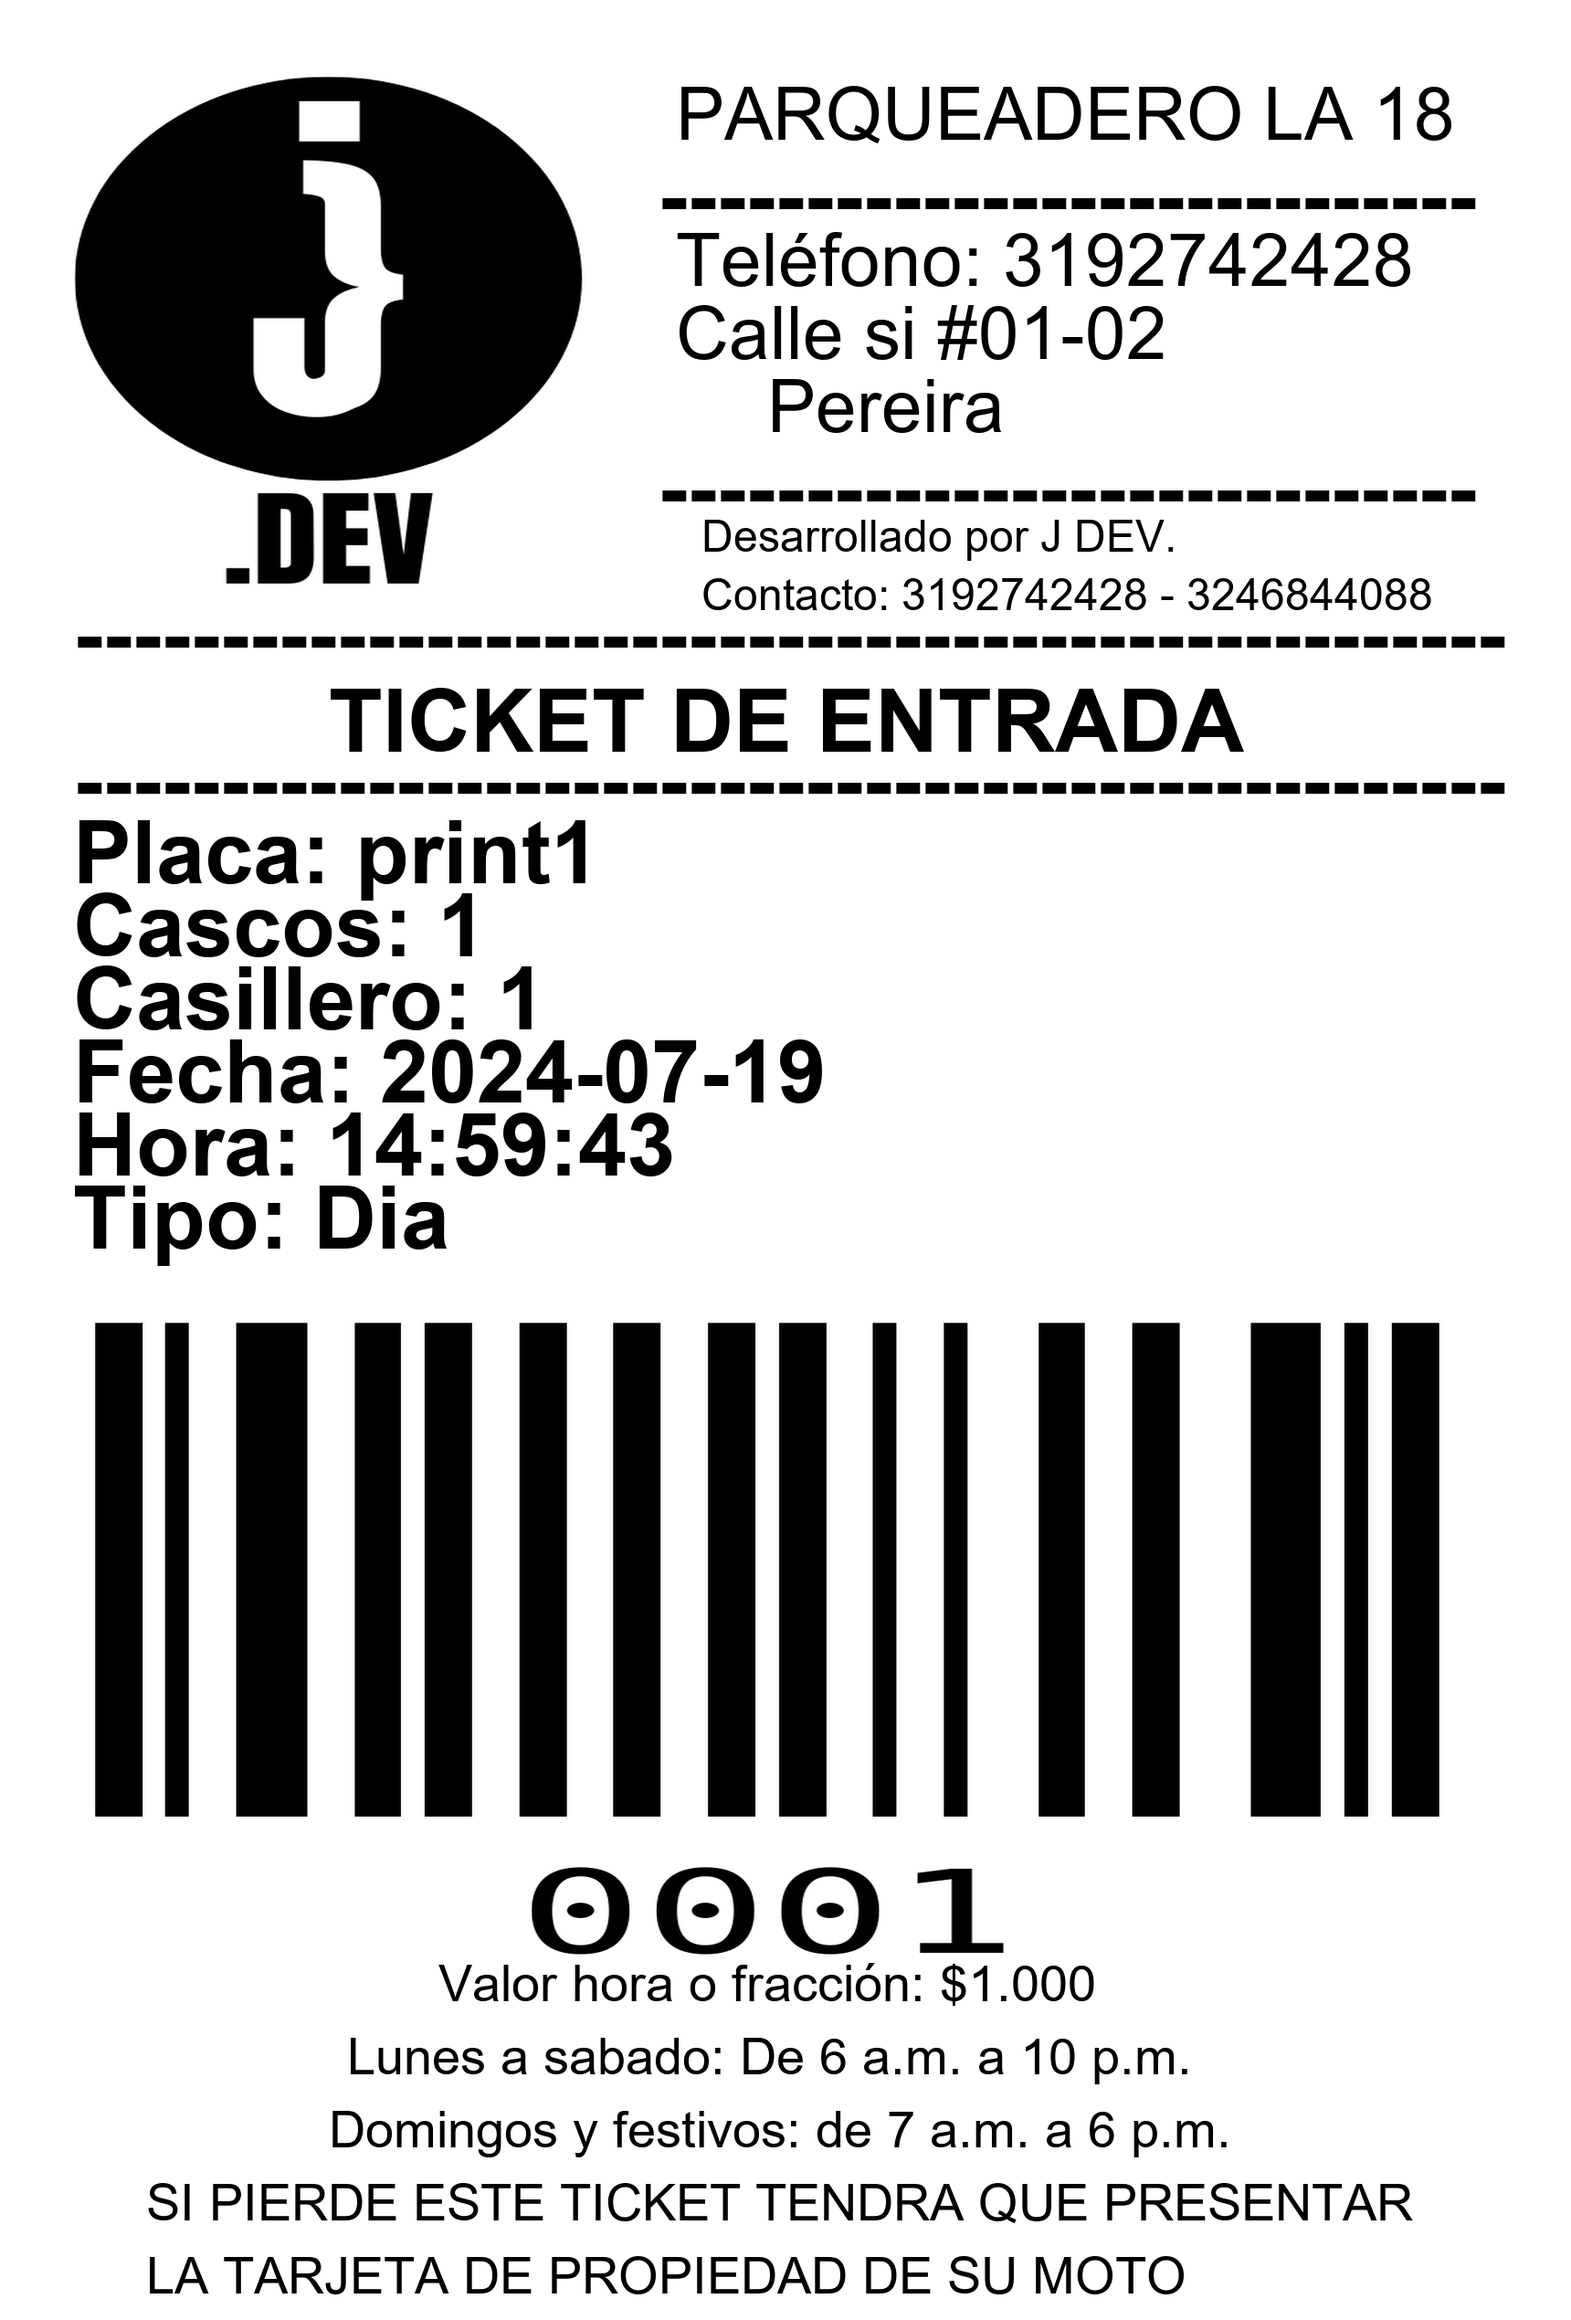
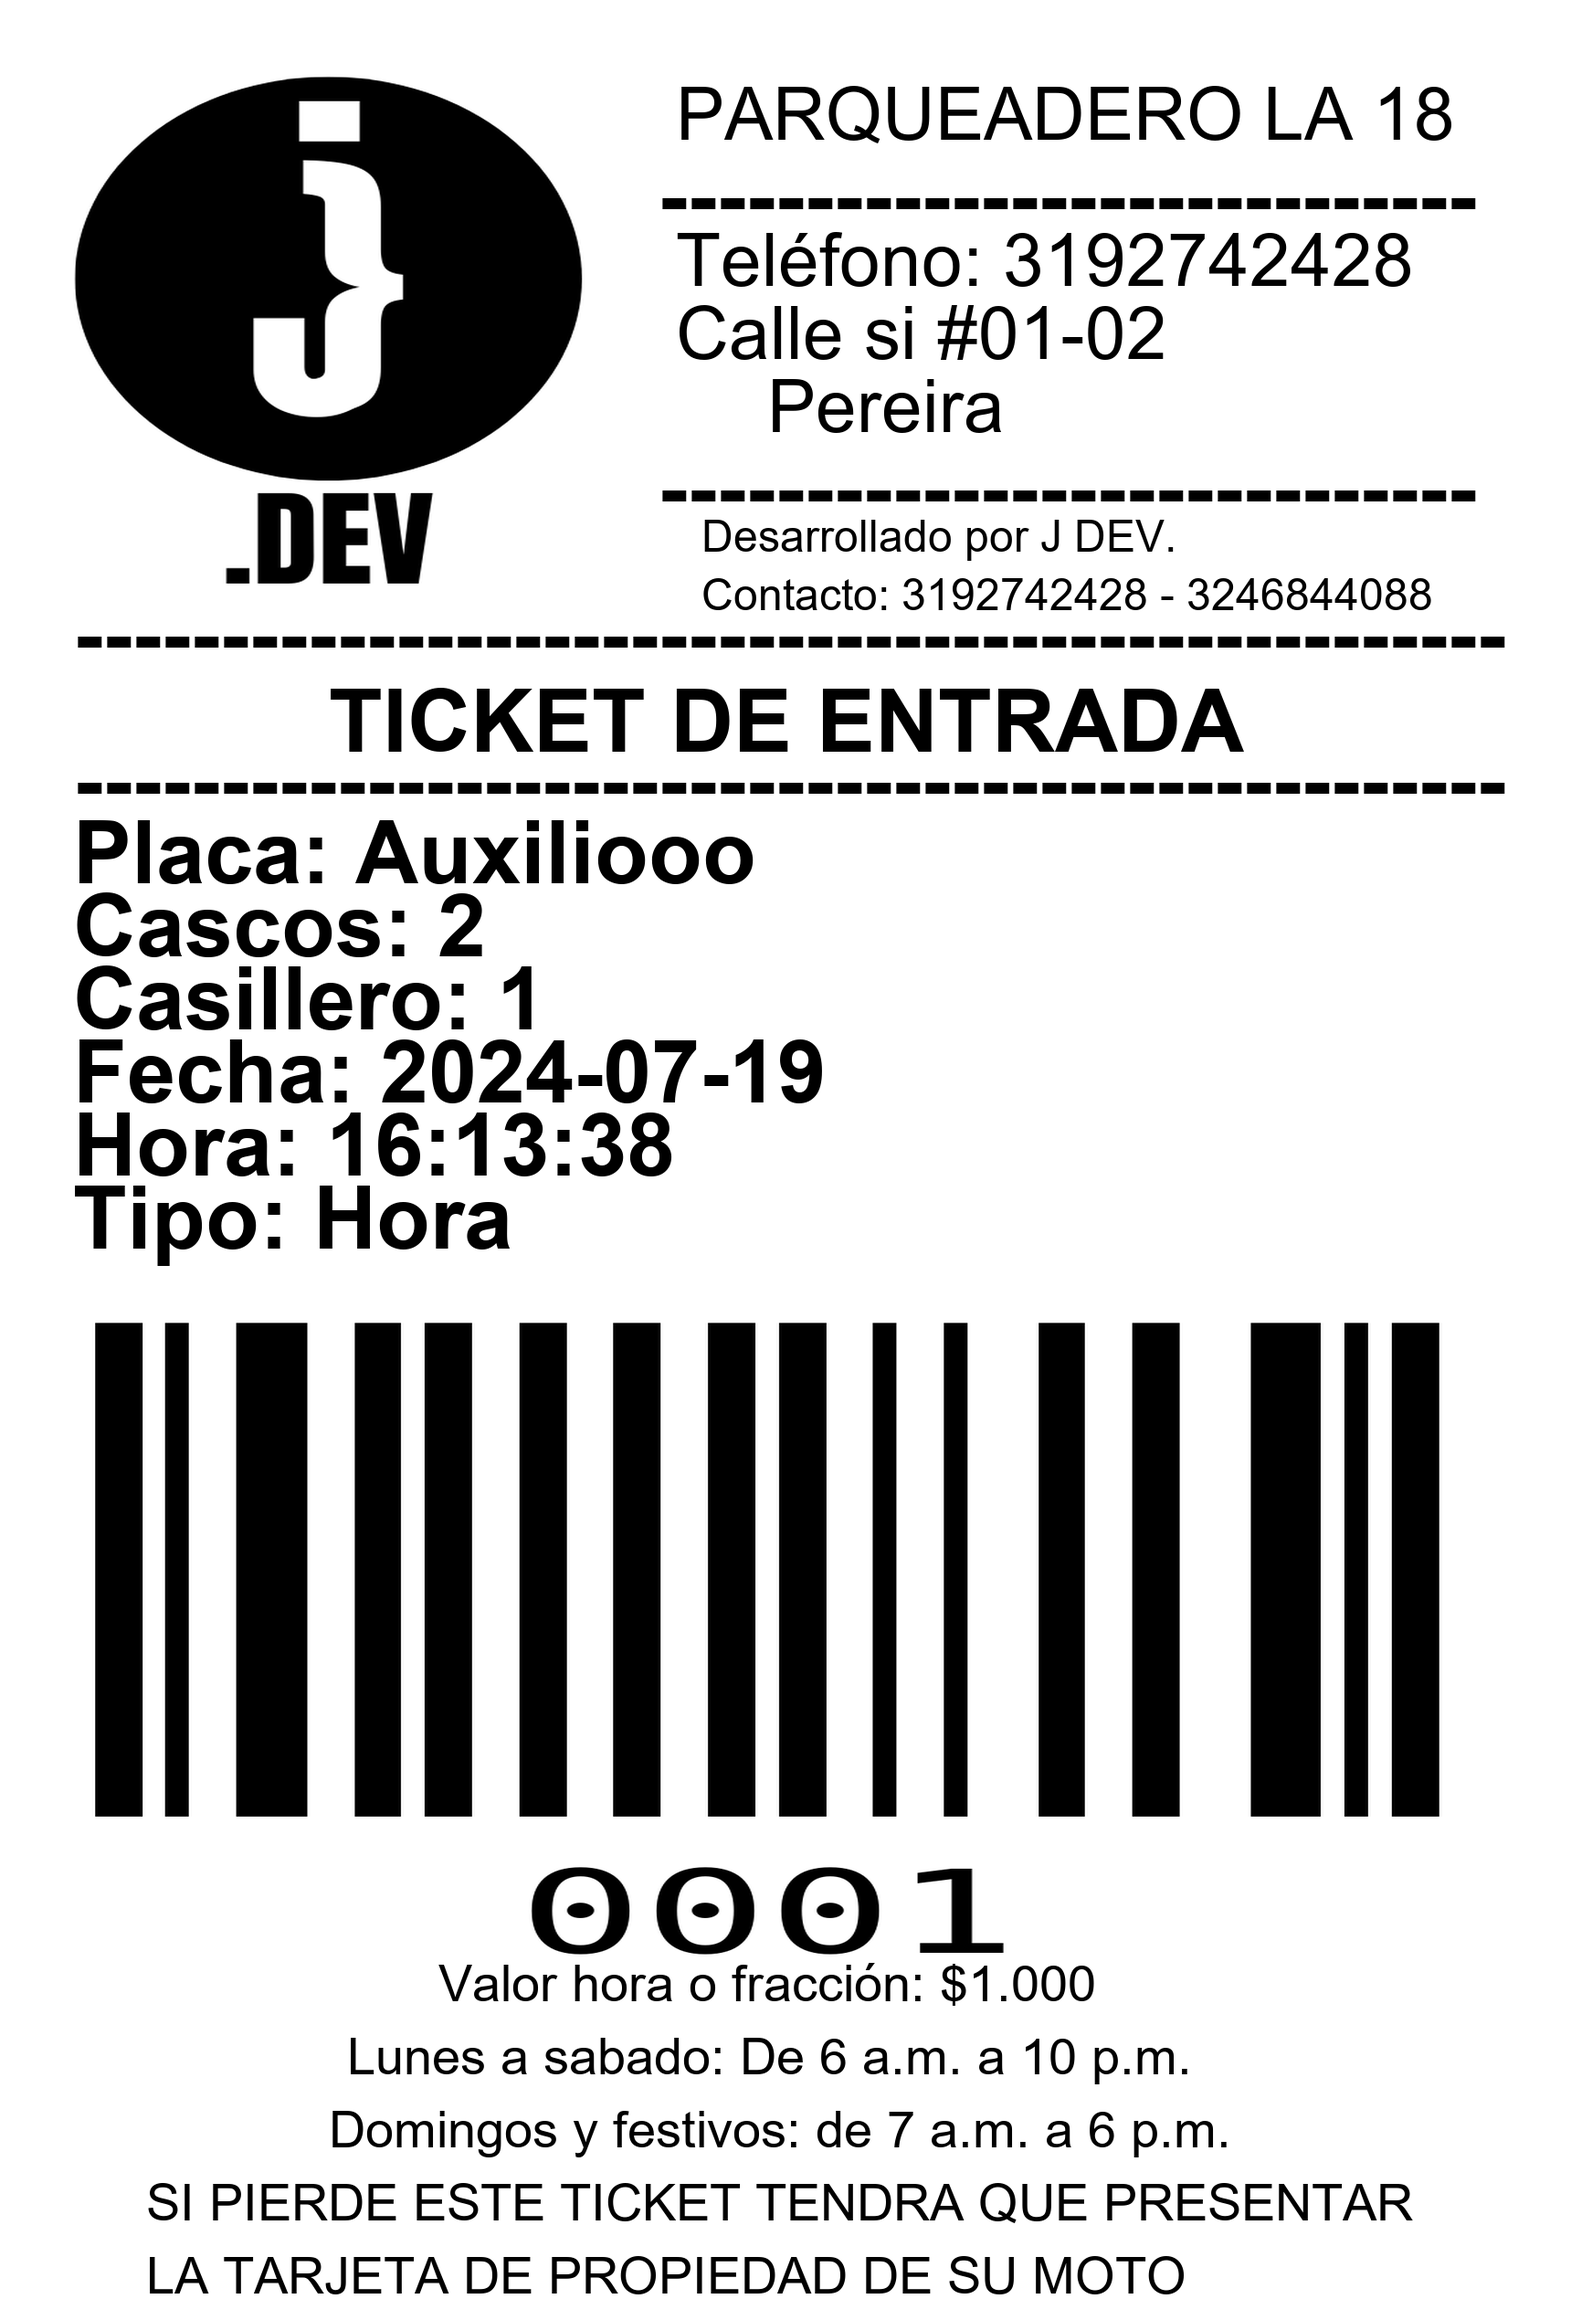
Se arreglo la generación de tickets al ingresar moto

Changed region(s): [[0.2157, 0.3421, 0.493, 0.4354], [0.2157, 0.4665, 0.339, 0.5598], [0.3698, 0.4665, 0.4314, 0.5287]]

diff --git a/TicketIngresoMoto.py b/TicketIngresoMoto.py
@@ -4,12 +4,20 @@ from barcode.writer import ImageWriter
 import os
 
 # Función para generar y guardar el recibo como imagen con dimensiones de POS y logo
-def generarTicketIngresoMoto(Tipo,Placa, Cascos, Casillero, Fecha, Hora, codigo_barras, ruta_logo, ruta_guardado):
+def generarTicketIngresoMoto(Tipo,Placa, Cascos, Casillero, Fecha, Hora):
     # Dimensiones típicas de un recibo POS, aumentadas para mejorar calidad
     width, height = 1720, 2540  # Duplicar el tamaño original nuevamente para mejorar la calidad de impresión
     img = Image.new('RGB', (width, height), color='white')
     d = ImageDraw.Draw(img)
+    # guardar ruta
+    # Obtener la ruta del directorio actual
+    directorio_actual = os.path.dirname(os.path.abspath(__file__))
 
+    ruta_logo = os.path.join(directorio_actual, "Logo.png")
+    ruta_guardado = os.path.join(directorio_actual, "TicketIngresoMoto.png")
+
+    #Codigo 
+    codigo_barras = "0001"
     # Cargar y redimensionar el logo
     logo = Image.open(ruta_logo)
     logo = logo.resize((560, 560), Image.LANCZOS)
@@ -68,19 +76,3 @@ def generarTicketIngresoMoto(Tipo,Placa, Cascos, Casillero, Fecha, Hora, codigo_
     img.save(ruta_guardado)
 
     print(f"Recibo generado y guardado en: {ruta_guardado}")
-
-# Ejemplo de uso
-Tipo = "Hora"
-Placa = "ABC12C"
-Cascos = "2"
-Casillero = "4"
-Fecha = "13-07-2024"
-Hora = "10:17:00"
-codigo_barras = "0001"
-# Obtener la ruta del directorio actual
-directorio_actual = os.path.dirname(os.path.abspath(__file__))
-
-ruta_logo = os.path.join(directorio_actual, "Logo.png")
-ruta_guardado = os.path.join(directorio_actual, "TicketIngresoMoto.png")
-
-generarTicketIngresoMoto(Tipo,Placa, Cascos, Casillero, Fecha, Hora, codigo_barras, ruta_logo, ruta_guardado)

diff --git a/pagina_Tickets.py b/pagina_Tickets.py
@@ -229,7 +229,7 @@ class PaginaTickets(QWidget):
         page_tickets.setLayout(layout_ticketsIngresoMotos)
         #se agrega la pagina al stack
         self.stacked_widgetTickets.addWidget(page_tickets)
-    
+        
 
     def pantallaSacarMoto (self):
         # Pagina de ticketes salida moto
